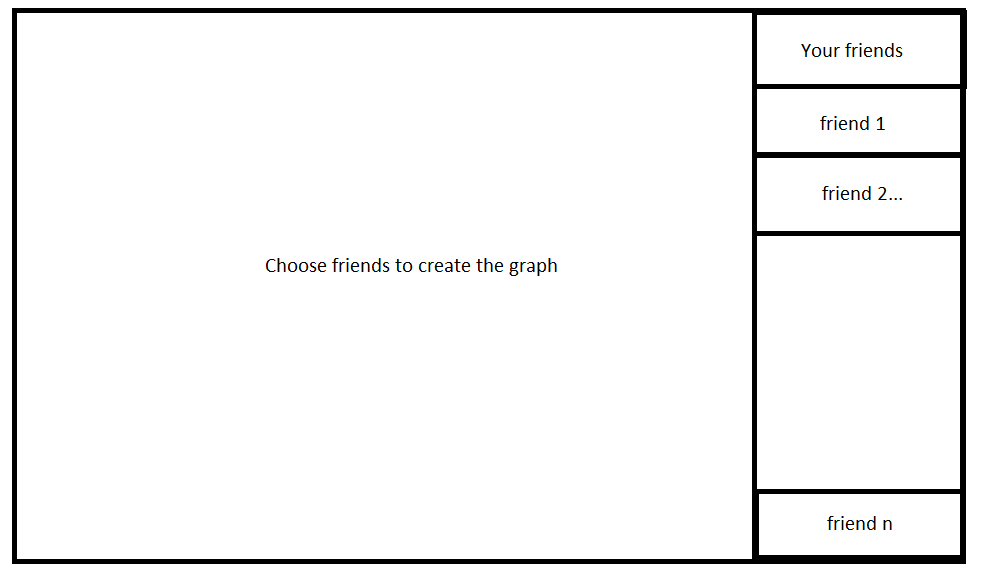
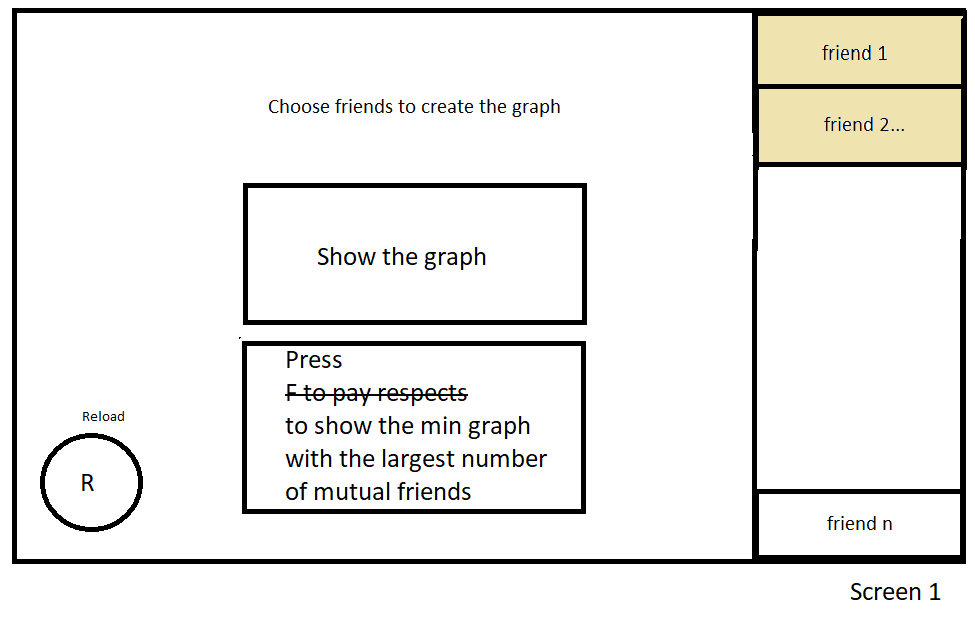
update readme and images

diff --git a/README.md b/README.md
@@ -9,7 +9,7 @@
 <br />
 В результате работы алгоритма будет выводиться граф, в вершинах которого пользователи социальной сети, а на ребрах - количество общих друзей
 <br />
-Из структур данных планируется использовать ArrayList, Hashmap
+Из структур данных планируется использовать ArrayList, HashMap, HashSet
 
 # Примерный вариант GUI:
 
@@ -23,11 +23,11 @@
 
 На шаге 1 выполняется oauth 2 авторизация на сайт vk.com
 <br />
-На шаге 2 у авторизованного пользователя появляется список друзей, которых можно выбрать для построения графа
+На шаге 2 на первом экране у авторизованного пользователя появляется список друзей, которых можно выбрать для построения графа
 <br />
-На шаге 3 строится граф общих друзей из выбранного пользователем списка
+На шаге 3 на втором экране строится граф общих друзей из выбранного пользователем списка
 <br />
-На шаге 4 по нажатию кнопки строится максимальное остовное дерево из этого графа
+На шаге 4 на третьем экране по нажатию кнопки строится максимальное остовное дерево из этого графа
 
 # План разработки
 Первая итерация: 
@@ -43,8 +43,8 @@
 6. Написание отчета
 
 # Роли в команде:
-Александров Руслан - разработчик
+Александров Руслан - реализация алгоритма, GUI, UML диаграмма, работа с запросами api
 <br />
-Рудоман Вадим - разработчик
+Рудоман Вадим - реализация алгоритма, тестирование
 <br />
-Ханова Юлия - разработчик, капитан
+Ханова Юлия - реализация алгоритма, написание отчета
